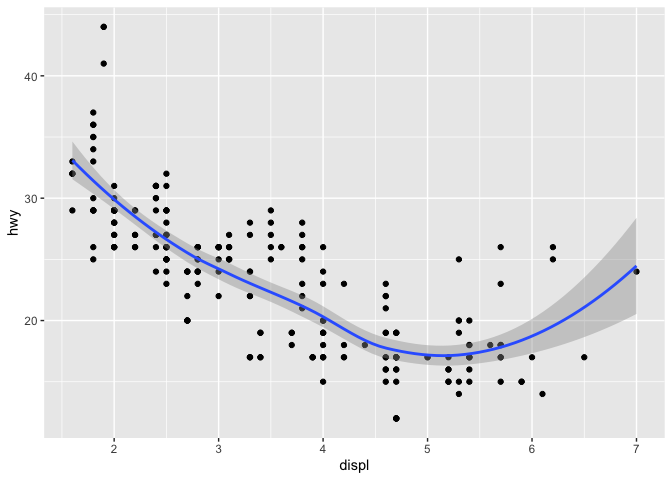
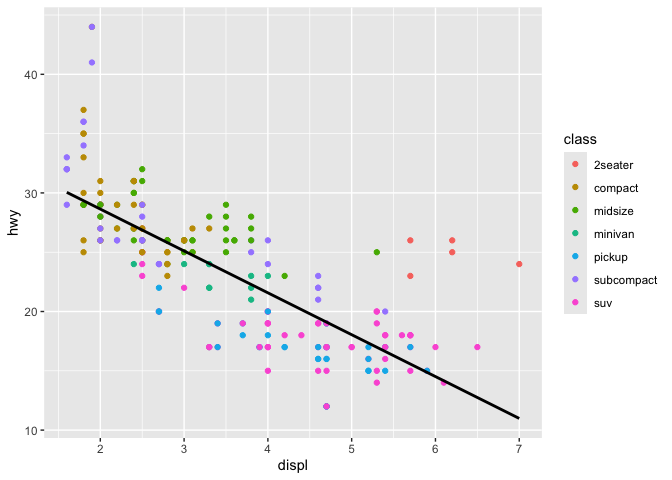
Rendered

diff --git a/week-4-visualize-exercises.md b/week-4-visualize-exercises.md
@@ -28,7 +28,12 @@ spelling, capitalization, and parentheses!
 
 ``` r
 ggplot(data=mpg) +
-  geom_point(mapping = aes(x = displ, y = hwy))
+  geom_point(mapping = aes(x = displ, y = hwy, color = class)) + 
+  labs (x = "Engine Size Displacement",
+        y = "Highwasy Mileage (mpg)",
+        color = "Class of Vehicle",
+        title = "The bigger the engine the less mileage we get on the highway") +
+  theme_light()
 ```
 
 ![](week-4-visualize-exercises_files/figure-commonmark/Creating%20ggplot%20graph-1.png)
@@ -130,7 +135,11 @@ Make a bar chart `class` colored by `class`. Use the help page for
 
 ``` r
 ggplot(data = mpg) +
-  geom_bar(mapping = aes(x = class, color = class))
+  geom_bar(mapping = aes(x = class, fill = class)) +
+  guides(fill = "none") +
+  labs(x = "Class of Vehicle",
+       y = "Number of Vehicles in Sample") +
+  theme_bw()
 ```
 
 ![](week-4-visualize-exercises_files/figure-commonmark/Bar%20Chart-1.png)
@@ -140,17 +149,19 @@ ggplot(data = mpg) +
 What will this code do?
 
 ``` r
-ggplot(mpg) + 
-  geom_point(aes(displ, hwy)) +
-  geom_smooth(aes(displ, hwy)) 
+ggplot(mpg, aes(x=displ, y = hwy)) + 
+  geom_point(aes(color = class)) +
+  geom_smooth(color = "black", 
+              se = FALSE,
+              method = "lm") 
 ```
 
-    `geom_smooth()` using method = 'loess' and formula = 'y ~ x'
+    `geom_smooth()` using formula = 'y ~ x'
 
 ![](week-4-visualize-exercises_files/figure-commonmark/unnamed-chunk-11-1.png)
 
 ``` r
-#  ggsave("example.jpg")
+# ggsave("example.jpg", width = 6, height = 4)
 ```
 
 > This code will make it easier to see the pattern in the scatterplot,
